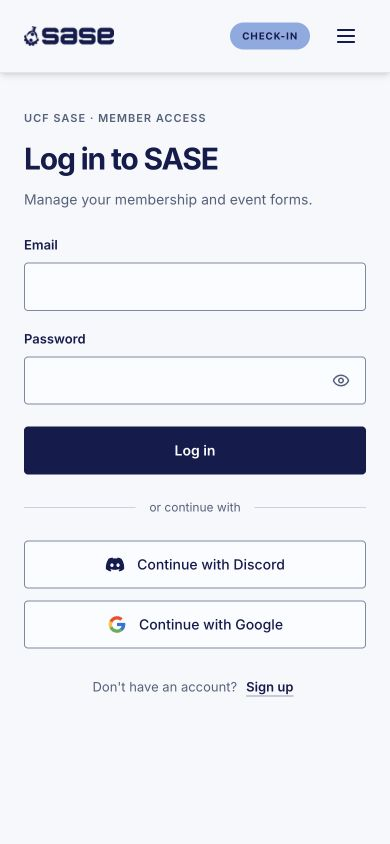
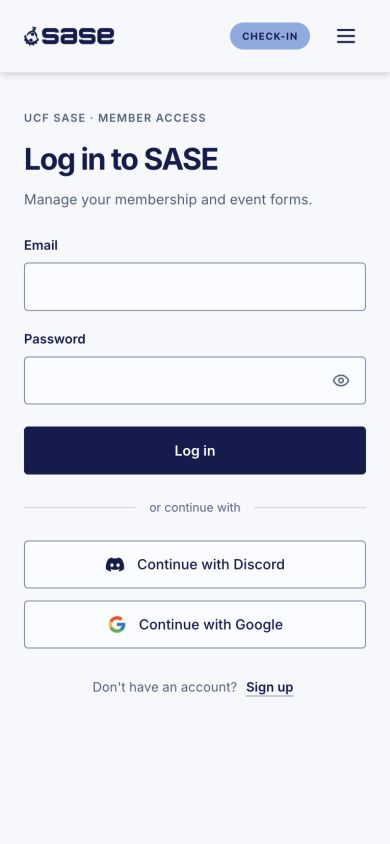
docs(login): add final desktop and mobile screenshots

diff --git a/docs/reviews/login-page-redesign/README.md b/docs/reviews/login-page-redesign/README.md
@@ -19,6 +19,9 @@ The branch is `feature/login-page-redesign`, rebased onto `origin/dev` at `6c640
 - `npx tsx --test tests/auth-redirect.test.ts`: 3 tests passed.
 - Source comparison: session checks, password and OAuth handlers, profile gates, and redirects are identical to the current base branch.
 - The replacement workshop photo was visually inspected from the existing local asset.
+- Final production page: reviewed the workshop photo crop at 1280px and 900px and captured a fresh 1280 × 900 desktop screenshot.
+- Final production page: captured a fresh 390 × 844 mobile screenshot; confirmed no horizontal overflow at 320, 390, 768, 900, and 1280px. Mobile inputs remain 16px and control heights remain at least 44px.
+- A fresh browser tab loaded the final page with no console errors. The older preview tab recorded a shared `/checkin` prefetch failure around the server restart; both results are retained in `final-browser-checks.json`.
 
 ## Browser checks from the approved layout
 
@@ -38,8 +41,10 @@ No real account sign-ins or OAuth authorization flows were completed, and no ema
 ## Visual evidence
 
 - `before-desktop.jpg`: original Login page before the redesign.
-- `mobile.jpg`: approved 390 × 844 mobile layout, captured before the desktop-only photo replacement and rebase.
-- `responsive-checks.json` and `keyboard-checks.json`: measurements from that layout review.
+- `desktop.jpg`: final 1280 × 900 desktop view with the workshop photo, captured after the photo replacement and rebase.
+- `mobile.jpg`: final 390 × 844 mobile view, captured after the photo replacement and rebase.
+- `final-browser-checks.json`: final responsive measurements and console observations.
+- `responsive-checks.json` and `keyboard-checks.json`: measurements from the original approved-layout review.
 - [Replacement workshop photo](../../../public/events/breadboard2.jpg).
 
-Fresh desktop screenshot capture was blocked because the host Mac was locked. The final desktop crop and the page after the rebase still need a browser review. The build is available locally at `http://127.0.0.1:3004/login` and in the PR's deployment preview when available.
+Both screenshots show the final production build. The browser viewport override was reset after verification. The build is available locally at `http://127.0.0.1:3004/login` and in the PR's deployment preview.
